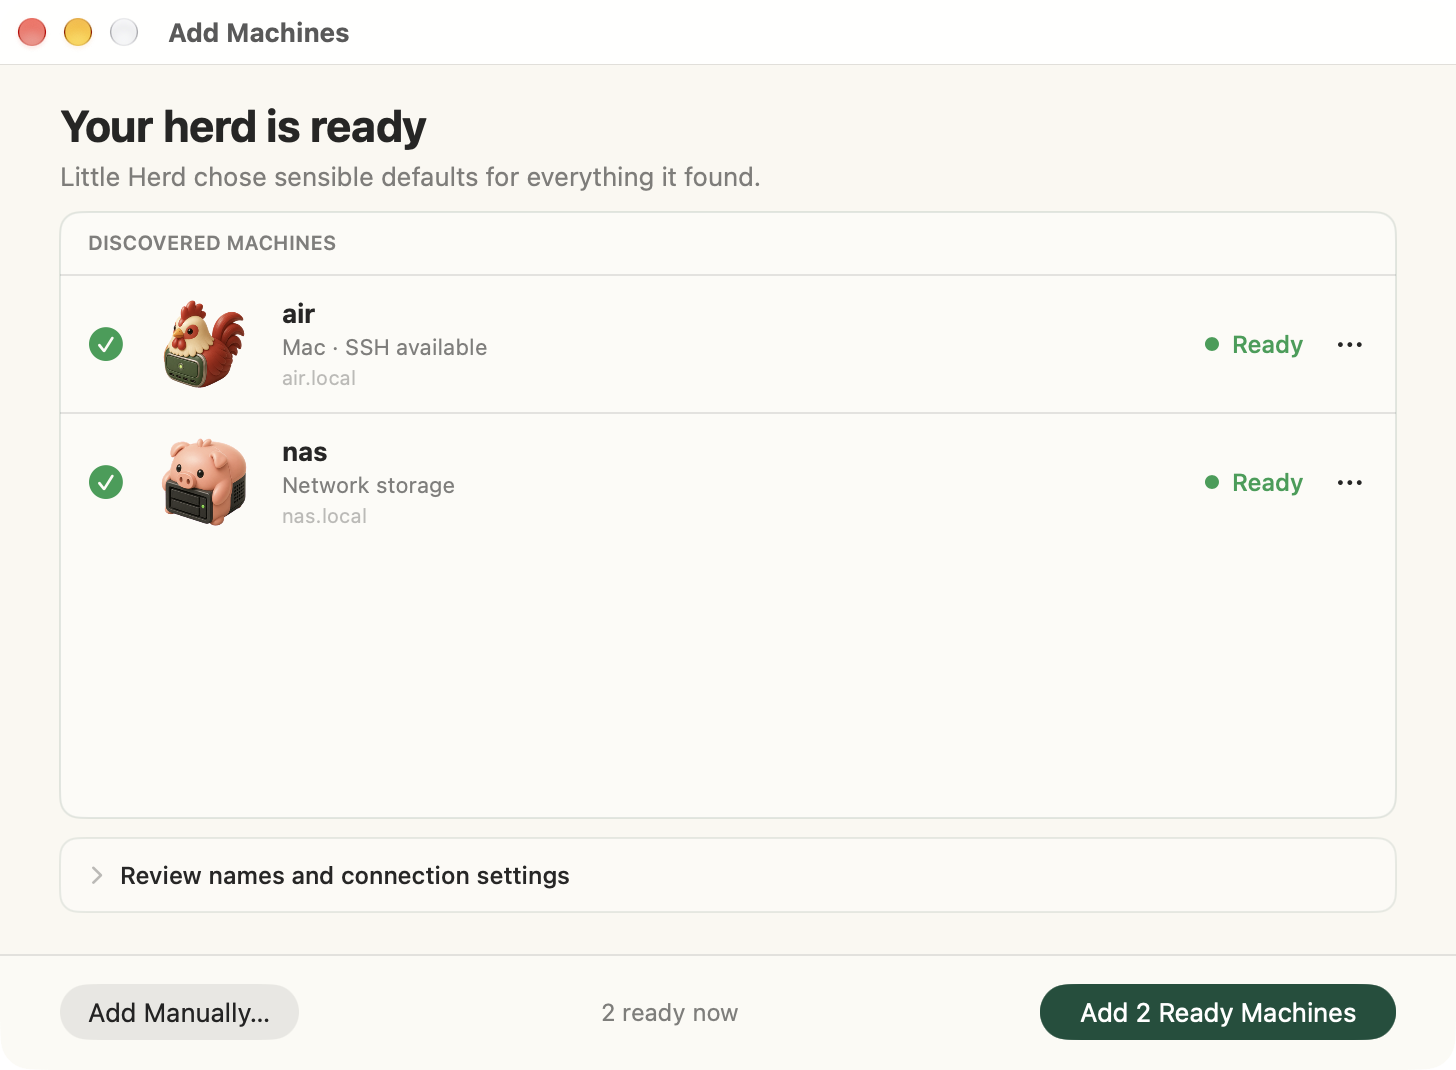
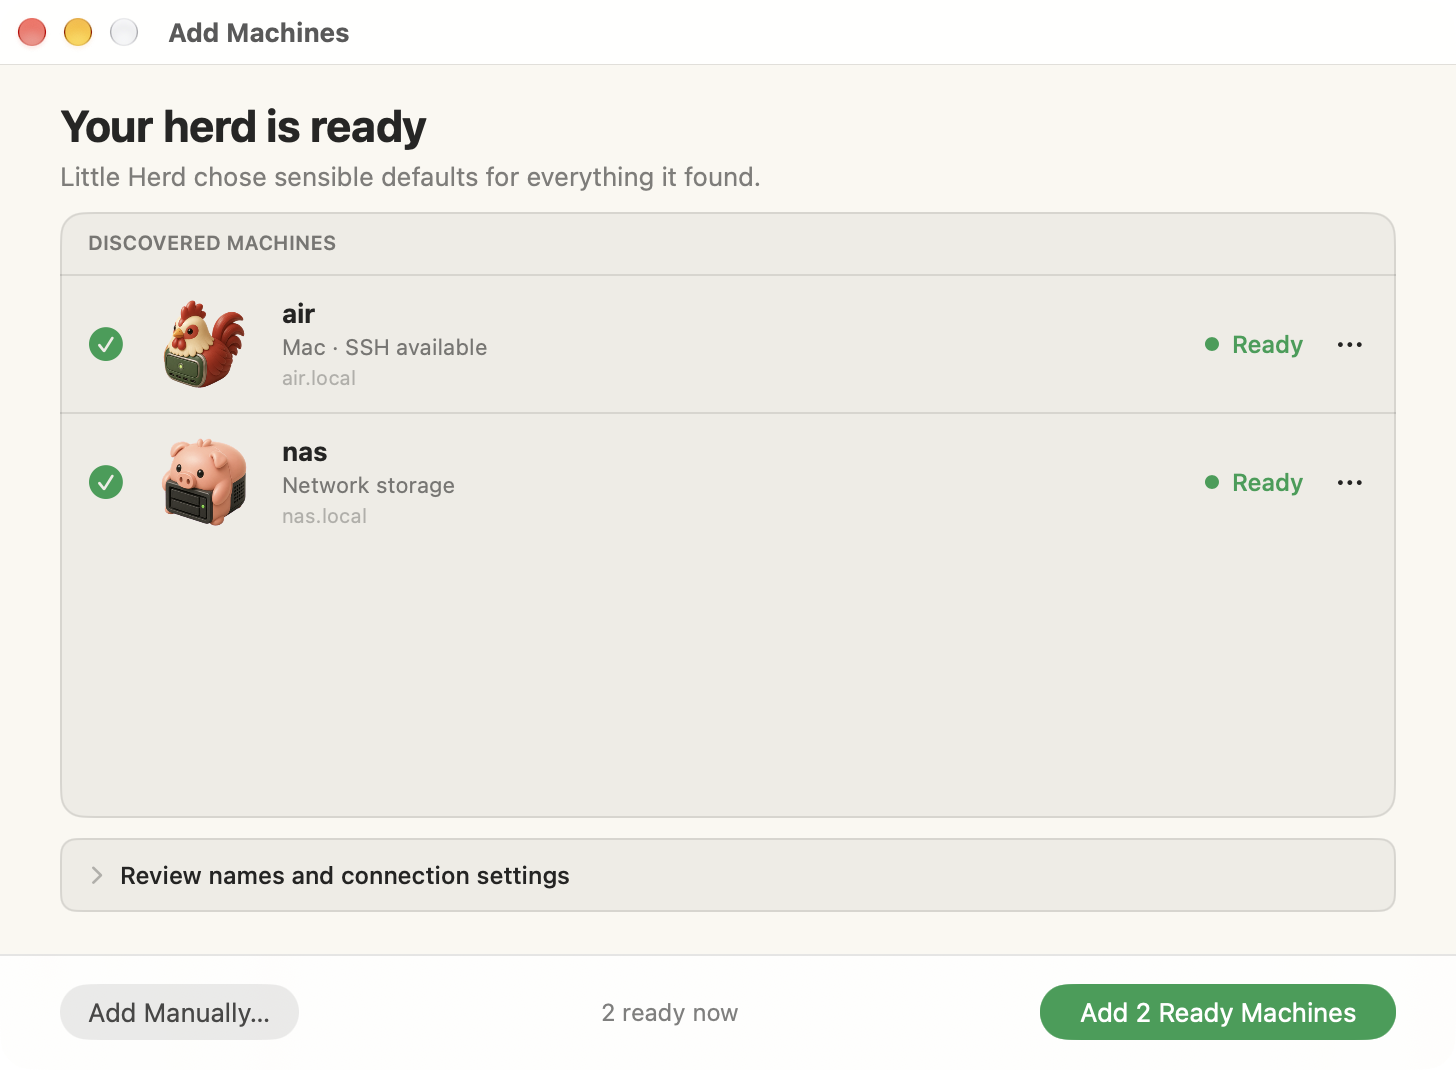
Say the same sentence in all three places, and book the work it promises
The README opens with the line the app and the website open with, and its hero
art carries it too. Three surfaces had three openings; a product that greets
you with one sentence, sells itself with another, and describes itself with a
third is three products.

The roadmap now says plainly that the website promises something the app cannot
do yet, names the three items that would make it true — the tokens and their
drag, what a destination has to be asked, and the transfer itself — and records
that the clause keeping the headline honest is load-bearing until then. A
fourth is named off the critical path: a move that fails has to say so and
leave you where you started, which the seven-step order only half provides
while a half-finished transfer is visible in a log rather than in the app.

The screenshots are recaptured from the running app: the dashboard as it is
now, with tabs, and the AI panel. The hover-header screenshot is deleted along
with the paragraph claiming that behaviour — it described pointing at a machine
replacing the header, which was removed five days ago, so the README has been
documenting a feature the app does not have.

Changed region(s): [[0.7109, 0.8944, 0.9581, 0.9869], [0.0618, 0.9252, 0.1854, 0.9561]]

diff --git a/scripts/make-readme-hero.swift b/scripts/make-readme-hero.swift
@@ -118,13 +118,15 @@ wordmark.draw(
 )
 cursor -= 44
 
+// The same line the app opens with and the website leads on. Three places
+// saying one thing, rather than three products.
 drawText(
-    "A menu-bar monitor for every machine you run.",
+    "Put your herd to work.",
     size: 38, weight: .semibold, alpha: 1, gap: 22
 )
 drawText(
-    "Macs, Linux boxes, and a Synology \u{2014} and the AI agents working on them.",
-    size: 25, weight: .regular, alpha: 0.78, gap: 0
+    "See the load across your machines and the AI sessions running on them \u{2014} then pick the right one for the next job.",
+    size: 23, weight: .regular, alpha: 0.78, gap: 0
 )
 
 NSGraphicsContext.restoreGraphicsState()

diff --git a/README.md b/README.md
@@ -20,11 +20,17 @@
 
 # Little Herd
 
-Little Herd is a compact, native macOS system monitor for a configurable group
-of Macs, Linux computers, GPU workstations, and mounted network storage. A new
-install begins with the current Mac and can discover or manually add several
-machines at once. It also surfaces the Claude Code and Codex sessions running
-across the herd, so the machine that is busy tells you what is making it busy.
+**Put your herd to work.** See the load across your Macs, your Linux boxes,
+your NAS and the AI sessions running on them — from the menu bar. Little Herd
+watches; choosing the machine is still yours.
+
+It is a compact, native macOS system monitor for a configurable group of Macs,
+Linux computers, GPU workstations, and mounted network storage. A new install
+begins with the current Mac and can discover or manually add several machines
+at once. It also surfaces the Claude Code and Codex sessions running across the
+herd, so the machine that is busy tells you what is making it busy.
+
+![The AI panel, listing the sessions running across the herd](Documentation/Screenshots/ai-panel.png)
 
 The website has screenshots, the story, and the download:
 **<https://malpern.github.io/little-herd/>**
@@ -117,11 +123,12 @@ skipping anything too small to round to a tenth of a core. Memory overview uses 
 and critical pressure state—shown as check, warning, and critical symbols—instead
 of treating intentionally occupied cache as a problem. Its memory page lists that machine's largest user-app families with their
 approximate resident memory and their own application icons, making likely apps
-to quit immediately visible. Hovering a machine in any overview replaces the
-header with that machine's own — what it is running, what is holding its
-memory, or how full its disks are.
+to quit immediately visible. Clicking a machine's thermometer opens that
+machine through the current metric — what it is running, what is holding its
+memory, or how full its disks are — and pointing at a column explains what its
+reading means without opening anything.
 
-![Hovering a machine replaces the header with that machine's memory detail](Documentation/Screenshots/memory-hover.png) App names are the only bold text in these compact
+App names are the only bold text in these compact
 details; memory amounts use the same small, secondary treatment as the overview
 status line. Little Herd keeps a tiny rolling history of those existing samples. After at least 90 seconds and seven distinct readings, a red dot marks
 an app whose memory has grown substantially and consistently. Hovering the dot

diff --git a/Documentation/HANDOFF.md b/Documentation/HANDOFF.md
@@ -1307,6 +1307,32 @@ it; the files survived only because the directory had not been reaped yet.
 
 ## Next
 
+**The website now promises "Put your herd to work", and the app does not yet
+let you.** That headline was adopted deliberately on 27 August, with the
+knowledge that it runs within a sentence of the site's own rule against
+claiming what the app does not do — what keeps it honest today is the clause
+beside it, *"Little Herd watches; choosing the machine is still yours."*
+**Until the app can do it, that clause is load-bearing and must not be trimmed
+for length.**
+
+Three of the items below are that work, and they unblock each other in this
+order — the numbering is the file's, not a priority:
+
+- **Item 1, the tokens and their drag.** Switched off, and the gesture already
+  built. Nothing can be moved by hand until they are on screen.
+- **Item 4, what a destination has to be asked.** Eligibility is measured and
+  the drop consults it; what is missing is the account-level answer, the
+  setter for the permission, and binding a grant to a host rather than to a
+  `MachineID` that can be re-pointed.
+- **Item 5, the transfer itself.** The seven-step move: quiesce, summarise,
+  verify the artifact, start the successor, verify it behaviourally, and only
+  then retire the source.
+
+A fourth is worth naming even though it is not on the critical path:
+**a session that fails to arrive has to say so, and leave you where you
+started.** The order in item 5 is a safety property and only half of one until
+a half-finished move is visible in the interface rather than in a log.
+
 1. **Where the agent tokens belong is the open question, and the drag is
    waiting behind it.** The tokens are switched off in `DashboardChrome` while
    the dashboard follows the site's design; the machinery below is untouched
